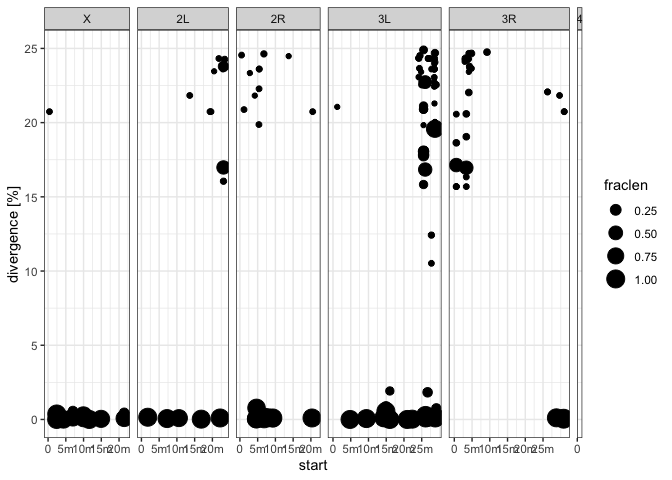
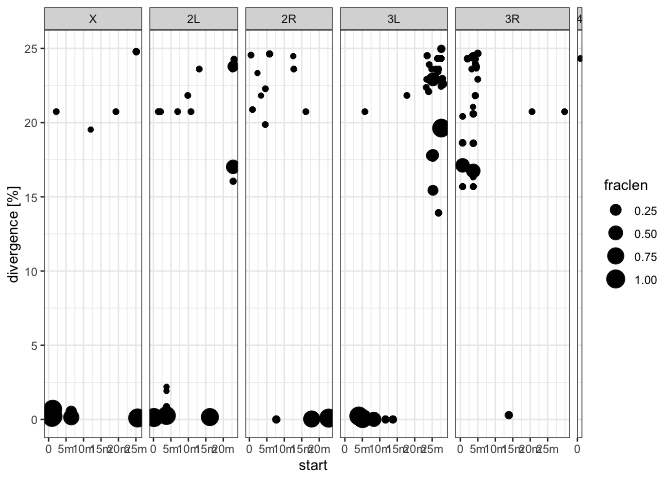
some new things ro

diff --git a/2023-09-Dmel-LR-assemblies/01-getting-LR-assemblies.md b/2023-09-Dmel-LR-assemblies/01-getting-LR-assemblies.md
@@ -308,10 +308,16 @@ test<-data.frame(crap=rep("rm",12),score=rep(1,12),similarity=rep(-1,12),
                      teend=rep(2,12),fraclen=rep(c(0.01,1.0),6))
 ```
 
+**sort**
+
+``` bash
+cat D.mel.RAL737.fa.ori.out.clean|sort -k11,11n > D.mel.RAL737.fa.ori.out.clean.sort 
+```
+
 **Iso-1**
 
 ``` r
-h<-read.table("/Users/rokofler/analysis/2023-Spoink/Dmel-Spoink/2023-09-Dmel-LR-assemblies/rawori/D.mel.Iso1.fa.ori.out.clean",header=F)
+h<-read.table("/Users/rokofler/analysis/2023-Spoink/Dmel-Spoink/2023-09-Dmel-LR-assemblies/rawori/D.mel.Iso1.fa.ori.out.clean.sort",header=F)
 names(h)<-c("crap","score","similarity","contig","start","end","strand","te","testart","teend","fraclen")
 keeporder<-c("JAEIGS010000021.1","JAEIGS010000190.1","JAEIGS010000001.1", "JAEIGS010000103.1","JAEIGS010000049.1","JAEIGS010000192.1")
 h<-subset(h,contig %in% keeporder)
@@ -322,13 +328,51 @@ h<-subset(h,fraclen>0.01)
 h<-rbind(h,boundary)
 
 
-t<-ggplot()+geom_point(data=h,aes(x=start,y=similarity,size=fraclen))+facet_grid(.~contig, scales="free_x", space = "free_x")+ylim(0,25)+scale_x_continuous(breaks=c(0,5000000,10000000,15000000,20000000,25000000),labels=c("0","5m","10m","15m","20m","25m"))+ylab("divergence [%]")
+t<-ggplot()+geom_point(data=h,aes(x=start,y=similarity,size=fraclen))+facet_grid(.~contig, scales="free_x", space = "free_x")+ylim(0,25)+scale_x_continuous(breaks=c(0,10000000,20000000),labels=c("0","10m","20m"))+ylab("divergence [%]")
 plot(t)
 ```
 
     ## Warning: Removed 12 rows containing missing values (geom_point).
 
-![](01-getting-LR-assemblies_files/figure-gfm/unnamed-chunk-13-1.png)<!-- -->
+![](01-getting-LR-assemblies_files/figure-gfm/unnamed-chunk-14-1.png)<!-- -->
+
+``` r
+pdf("/Users/rokofler/analysis/2023-Spoink/Dmel-Spoink/2023-09-Dmel-LR-assemblies/graphs/D.mel.Iso1.pdf",width=7,height=2.5)
+plot(t)
+```
+
+    ## Warning: Removed 12 rows containing missing values (geom_point).
+
+``` r
+dev.off()
+```
+
+    ## quartz_off_screen 
+    ##                 2
+
+``` r
+t2<-ggplot()+geom_point(data=h,aes(x=start,y=similarity,color=fraclen),size=2,alpha=0.8)+facet_grid(.~contig, scales="free_x", space = "free_x")+ylim(0,25)+scale_x_continuous(breaks=c(0,10000000,20000000),labels=c("0","10m","20m"))+ylab("divergence [%]")+
+  scale_colour_gradient(high="blue",low="red")
+plot(t2)
+```
+
+    ## Warning: Removed 12 rows containing missing values (geom_point).
+
+![](01-getting-LR-assemblies_files/figure-gfm/unnamed-chunk-14-2.png)<!-- -->
+
+``` r
+pdf("/Users/rokofler/analysis/2023-Spoink/Dmel-Spoink/2023-09-Dmel-LR-assemblies/graphs/D.mel.Iso1.heatmap.pdf",width=7,height=2)
+plot(t2)
+```
+
+    ## Warning: Removed 12 rows containing missing values (geom_point).
+
+``` r
+dev.off()
+```
+
+    ## quartz_off_screen 
+    ##                 2
 
 **AKA017**
 
@@ -349,7 +393,7 @@ plot(t)
 
     ## Warning: Removed 12 rows containing missing values (geom_point).
 
-![](01-getting-LR-assemblies_files/figure-gfm/unnamed-chunk-14-1.png)<!-- -->
+![](01-getting-LR-assemblies_files/figure-gfm/unnamed-chunk-15-1.png)<!-- -->
 
 ``` r
 #pdf(file="/Users/rokofler/analysis/2023-Spoink/Dmel-Spoink/2023-09-originOfSpoink/graphs/species-histogram.pdf",width=7,height=7)
@@ -385,7 +429,7 @@ plot(t)
 
     ## Warning: Removed 12 rows containing missing values (geom_point).
 
-![](01-getting-LR-assemblies_files/figure-gfm/unnamed-chunk-15-1.png)<!-- -->
+![](01-getting-LR-assemblies_files/figure-gfm/unnamed-chunk-16-1.png)<!-- -->
 
 **RAL059**
 
@@ -414,12 +458,12 @@ plot(t)
 
     ## Warning: Removed 12 rows containing missing values (geom_point).
 
-![](01-getting-LR-assemblies_files/figure-gfm/unnamed-chunk-16-1.png)<!-- -->
+![](01-getting-LR-assemblies_files/figure-gfm/unnamed-chunk-17-1.png)<!-- -->
 
 **RAL737**
 
 ``` r
-h<-read.table("/Users/rokofler/analysis/2023-Spoink/Dmel-Spoink/2023-09-Dmel-LR-assemblies/rawori/D.mel.RAL737.fa.ori.out.clean",header=F)
+h<-read.table("/Users/rokofler/analysis/2023-Spoink/Dmel-Spoink/2023-09-Dmel-LR-assemblies/rawori/D.mel.RAL737.fa.ori.out.clean.sort",header=F)
 names(h)<-c("crap","score","similarity","contig","start","end","strand","te","testart","teend","fraclen")
 
 keeporder<-c("CM034760.1","CM034761.1","CM034762.1", "CM034763.1","CM034764.1","CM034765.1")
@@ -430,10 +474,48 @@ h<-subset(h,similarity<25)
 h<-subset(h,fraclen>0.01)
 h<-rbind(h,boundary)
 
-t<-ggplot()+geom_point(data=h,aes(x=start,y=similarity,size=fraclen))+facet_grid(.~contig, scales="free_x", space = "free_x")+ylim(0,25)+scale_x_continuous(breaks=c(0,5000000,10000000,15000000,20000000,25000000),labels=c("0","5m","10m","15m","20m","25m"))+ylab("divergence [%]")
+t<-ggplot()+geom_point(data=h,aes(x=start,y=similarity,size=fraclen))+facet_grid(.~contig, scales="free_x", space = "free_x")+ylim(0,25)+scale_x_continuous(breaks=c(0,10000000,20000000),labels=c("0","10m","20m"))+ylab("divergence [%]")
 plot(t)
 ```
 
     ## Warning: Removed 12 rows containing missing values (geom_point).
 
-![](01-getting-LR-assemblies_files/figure-gfm/unnamed-chunk-17-1.png)<!-- -->
+![](01-getting-LR-assemblies_files/figure-gfm/unnamed-chunk-18-1.png)<!-- -->
+
+``` r
+pdf("/Users/rokofler/analysis/2023-Spoink/Dmel-Spoink/2023-09-Dmel-LR-assemblies/graphs/D.mel.RAL737.pdf",width=7,height=2.5)
+plot(t)
+```
+
+    ## Warning: Removed 12 rows containing missing values (geom_point).
+
+``` r
+dev.off()
+```
+
+    ## quartz_off_screen 
+    ##                 2
+
+``` r
+t2<-ggplot()+geom_point(data=h,aes(x=start,y=similarity,color=fraclen),size=2,alpha=0.8)+facet_grid(.~contig, scales="free_x", space = "free_x")+ylim(0,25)+scale_x_continuous(breaks=c(0,10000000,20000000),labels=c("0","10m","20m"))+ylab("divergence [%]")+
+  scale_colour_gradient(low="red",high="blue")
+plot(t2)
+```
+
+    ## Warning: Removed 12 rows containing missing values (geom_point).
+
+![](01-getting-LR-assemblies_files/figure-gfm/unnamed-chunk-18-2.png)<!-- -->
+
+``` r
+pdf("/Users/rokofler/analysis/2023-Spoink/Dmel-Spoink/2023-09-Dmel-LR-assemblies/graphs/D.mel.RAL737.heatmap.pdf",width=7,height=2)
+plot(t2)
+```
+
+    ## Warning: Removed 12 rows containing missing values (geom_point).
+
+``` r
+dev.off()
+```
+
+    ## quartz_off_screen 
+    ##                 2

diff --git a/2023-09-originOfSpoink/01-OriginOfSpoink-rm.md b/2023-09-originOfSpoink/01-OriginOfSpoink-rm.md
@@ -24,8 +24,12 @@ ll seq
 ## Starting with Droso assemblies
 
 ``` bash
-or i in raw-dmel/D.mel.*.fa; do RepeatMasker -pa 20 -no_is -s -nolow -dir rm/MCTE -lib seqs/MCTE.fasta $i;done
+for i in raw-dmel/D.mel.*.fa; do RepeatMasker -pa 20 -no_is -s -nolow -dir rm/MCTE -lib seqs/MCTE.fasta $i;done
 (base) [0,11707]fschwarz% for i in assemblies-Droso/C.costata.fa assemblies-Droso/D.aff.chauv..fa assemblies-Droso/D.ambigua.fa assemblies-Droso/D.americana.fa assemblies-Droso/D.ananassae.fa assemblies-Droso/D.arawakana.fa assemblies-Droso/D.biarmipes.fa assemblies-Droso/D.bipectinata.fa assemblies-Droso/D.bocqueti.fa assemblies-Droso/D.cardini.fa assemblies-Droso/D.carrolli.fa assemblies-Droso/D.dunni.fa assemblies-Droso/D.elegans.fa assemblies-Droso/D.equinoxialis.fa assemblies-Droso/D.ercepeae.fa assemblies-Droso/D.erecta.fa assemblies-Droso/D.eugracilis.fa assemblies-Droso/D.ficusphila.fa assemblies-Droso/D.funebris.fa assemblies-Droso/D.fuyamai.fa assemblies-Droso/D.grimshawi.fa assemblies-Droso/D.immigrans.12.fa assemblies-Droso/D.immigrans.k17.fa assemblies-Droso/D.insularis.fa assemblies-Droso/D.jambulina.fa assemblies-Droso/D.kikkawai.fa assemblies-Droso/D.kurseongensis.fa assemblies-Droso/D.littoralis.fa assemblies-Droso/D.mal.mal..fa assemblies-Droso/D.mal.pallens.fa assemblies-Droso/D.mau.01.fa assemblies-Droso/D.mau.R31.fa assemblies-Droso/D.mau.R32.fa assemblies-Droso/D.mau.R39.fa assemblies-Droso/D.mau.R61.fa assemblies-Droso/D.mel.Es_Ten.fa assemblies-Droso/D.mel.Iso1.fa assemblies-Droso/D.mel.Pi2.fa assemblies-Droso/D.mel.RAL176.fa assemblies-Droso/D.mel.RAL732.fa assemblies-Droso/D.mel.RAL737.fa assemblies-Droso/D.mel.RAL91.fa assemblies-Droso/D.mel.SE_Sto.fa assemblies-Droso/D.mojavensis.fa assemblies-Droso/D.murphyi.fa assemblies-Droso/D.neocordata.fa assemblies-Droso/D.obscura.fa assemblies-Droso/D.oshimai.fa assemblies-Droso/D.parabipectinata.fa assemblies-Droso/D.paulistorum.06.fa assemblies-Droso/D.paulistorum.12.fa assemblies-Droso/D.persimilis.fa assemblies-Droso/D.prosaltans.fa assemblies-Droso/D.pruinosa.fa assemblies-Droso/D.pseuan.nigrens.fa assemblies-Droso/D.pseuan.pseuan..fa assemblies-Droso/D.pseudoobscura.fa assemblies-Droso/D.quadrilineata.fa assemblies-Droso/D.repleta.fa assemblies-Droso/D.repletoides.fa assemblies-Droso/D.rhopaloa.fa assemblies-Droso/D.rufa.fa assemblies-Droso/D.saltans.fa assemblies-Droso/D.sechellia.fa assemblies-Droso/D.sim.006.fa assemblies-Droso/D.sim.SZ129.fa assemblies-Droso/D.sim.SZ232.fa assemblies-Droso/D.sp.14030-0761.01.fa assemblies-Droso/D.sp.st01m.fa assemblies-Droso/D.sproati.fa assemblies-Droso/D.sturtevanti.fa assemblies-Droso/D.subobscura.fa assemblies-Droso/D.subpulchrella.fa assemblies-Droso/D.sucinea.fa assemblies-Droso/D.takahashii.fa assemblies-Droso/D.teissieri.273.3.fa assemblies-Droso/D.teissieri.ct02.fa assemblies-Droso/D.triauraria.fa assemblies-Droso/D.tristis.fa assemblies-Droso/D.tropicalis.fa assemblies-Droso/D.varians.fa assemblies-Droso/D.virilis.fa assemblies-Droso/D.willistoni.00.fa assemblies-Droso/D.willistoni.17.fa assemblies-Droso/D.yakuba.fa assemblies-Droso/L.clarofinis.fa assemblies-Droso/L.collinella.fa assemblies-Droso/L.magnipectinata.fa assemblies-Droso/L.mommai.fa assemblies-Droso/L.stackelbergi.fa assemblies-Droso/L.varia.fa assemblies-Droso/S.graminum.fa assemblies-Droso/S.hsui.fa assemblies-Droso/S.montana.fa assemblies-Droso/S.pallida.fa assemblies-Droso/Z.africanus.fa assemblies-Droso/Z.camerounensis.fa assemblies-Droso/Z.capensis.fa assemblies-Droso/Z.davidi.fa assemblies-Droso/Z.gabonicus.fa assemblies-Droso/Z.ghesquierei.fa assemblies-Droso/Z.indianus.BS02.fa assemblies-Droso/Z.indianus.D18.fa assemblies-Droso/Z.indianus.R04.fa assemblies-Droso/Z.indianus.V01.fa assemblies-Droso/Z.inermis.fa assemblies-Droso/Z.kolodkinae.fa assemblies-Droso/Z.lachaisei.fa assemblies-Droso/Z.nigranus.fa assemblies-Droso/Z.ornatus.fa assemblies-Droso/Z.taronus.fa assemblies-Droso/Z.tsacasi.car7.fa assemblies-Droso/Z.tsacasi.jd01t.fa assemblies-Droso/Z.vittiger.fa; do RepeatMasker -pa 20 -no_is -s -nolow -dir rm/Droso -lib seq/spoink-dmel-consensus_v1.fasta $i;done
+
+
+## just the LTR - for Phylogeny
+for i in assemblies-Droso/*.fa; do RepeatMasker -pa 20 -no_is -s -nolow -dir rm/Droso-ltr -lib seq/spoink-dmel-LTR_v1.fasta $i;done 
 ```
 
 Insect assemblies
@@ -52,7 +56,9 @@ cat Insects/tmp-merged-Insects.sum ../seq/self/tmp-self.sum >Insects.sum
 # Score (the highest)
 # the highest score among all Droso or Insects is set to 1.0 (including self)
 cat Droso.sum|grep -v "D.mel.RAL91\|D.mel.RAL732\|D.sim.SZ*\|D.mau.R39\|D.mau.R31\|D.mau.R32\|D.mau.R61\|D.mel.Pi2\|D.mel.Es_Ten\|D.mel.RAL737\|D.mel.SE_Sto" > Droso.subset.sum
+cat Droso.sum | grep -v "D.mel.RAL91\|D.mel.RAL732\|D.sim.SZ*\|D.mau.R39\|D.mau.R31\|D.mau.R32\|D.mau.R61\|D.mel.Pi2\|D.mel.Es_Ten\|D.mel.RAL176\|D.mel.SE_Sto" > Droso.subset2.sum
 python ../score-max.py --rm Droso.subset.sum >Droso.subset.score
+python ../score-max.py --rm Droso.subset2.sum >Droso.subset2.score
 python ../score-max.py --rm Insects.sum  > Insects.score
 ```
 
@@ -283,7 +289,8 @@ cat Insects.sum|awk '{print $15}'|uniq -c
 ``` r
 sortorder<-c( 
   # melanogaster group
-  "D.mel.Iso1","D.mel.RAL176",
+  "D.mel.Iso1","D.mel.RAL737",
+  #"D.mel.RAL176",
   "D.sim.006",
   #"D.sim.SZ232","D.sim.SZ129",
   "D.mau.01",
@@ -349,7 +356,7 @@ library(tidyverse)
 ``` r
 theme_set(theme_bw())
 
-h<-read.table("/Users/rokofler/analysis/2023-Spoink/Dmel-Spoink/2023-09-originOfSpoink/raw/Droso.subset.score",header=F)
+h<-read.table("/Users/rokofler/analysis/2023-Spoink/Dmel-Spoink/2023-09-originOfSpoink/raw/Droso.subset2.score",header=F)
 names(h)<-c("te","species","score")
 t<-subset(h,species %in% sortorder)
 t$species <- factor(t$species, levels=sortorder)
